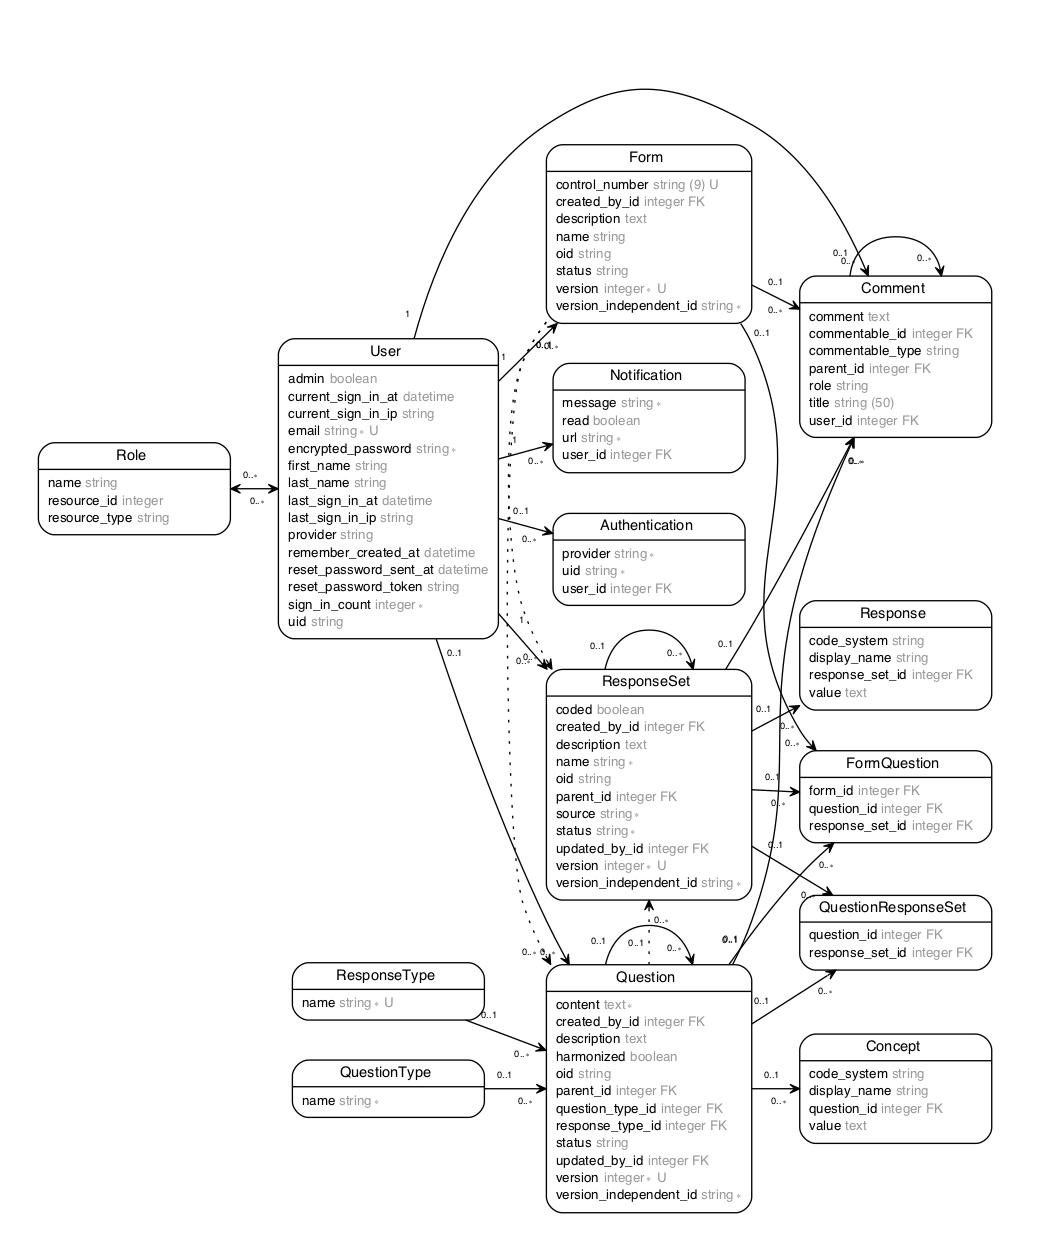
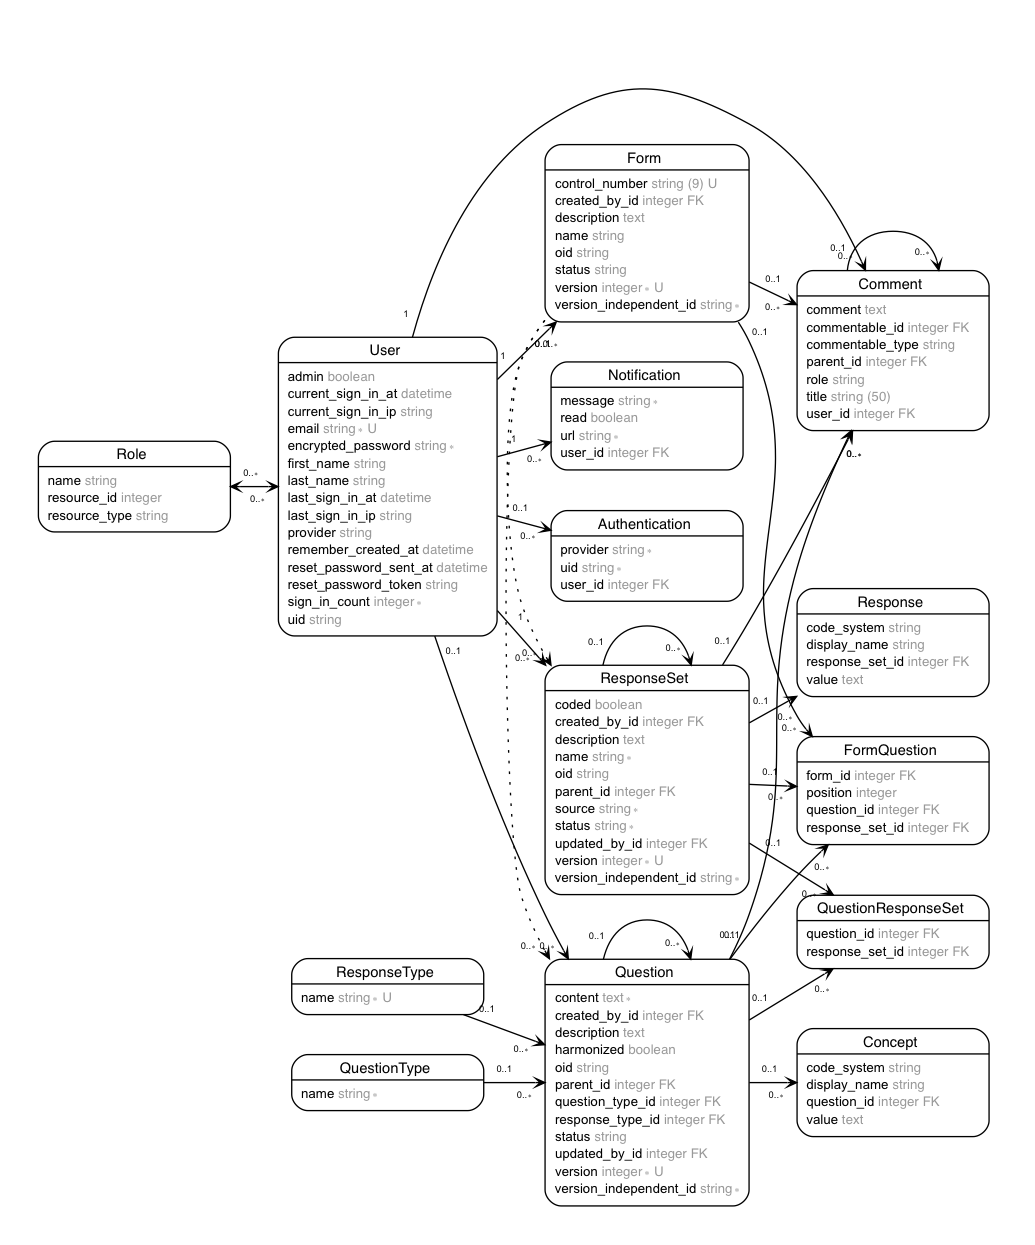
Added position to the formQuestion model

diff --git a/db/schema.rb b/db/schema.rb
@@ -10,7 +10,7 @@
 #
 # It's strongly recommended that you check this file into your version control system.
 
-ActiveRecord::Schema.define(version: 20170301133500) do
+ActiveRecord::Schema.define(version: 20170307205339) do
 
   # These are extensions that must be enabled in order to support this database
   enable_extension "plpgsql"
@@ -55,6 +55,7 @@ ActiveRecord::Schema.define(version: 20170301133500) do
     t.integer  "response_set_id"
     t.datetime "created_at",      null: false
     t.datetime "updated_at",      null: false
+    t.integer  "position"
   end
 
   create_table "forms", force: :cascade do |t|
@@ -157,6 +158,22 @@ ActiveRecord::Schema.define(version: 20170301133500) do
     t.datetime "updated_at"
     t.index ["name", "resource_type", "resource_id"], name: "index_roles_on_name_and_resource_type_and_resource_id", using: :btree
     t.index ["name"], name: "index_roles_on_name", using: :btree
+  end
+
+  create_table "taggings", force: :cascade do |t|
+    t.integer  "tag_id"
+    t.string   "taggable_type"
+    t.integer  "taggable_id"
+    t.string   "tagger_type"
+    t.integer  "tagger_id"
+    t.string   "context",       limit: 128
+    t.datetime "created_at"
+    t.index ["tag_id", "taggable_id", "taggable_type", "context", "tagger_id", "tagger_type"], name: "taggings_idx", unique: true, using: :btree
+  end
+
+  create_table "tags", force: :cascade do |t|
+    t.string "name"
+    t.index ["name"], name: "index_tags_on_name", unique: true, using: :btree
   end
 
   create_table "users", force: :cascade do |t|

diff --git a/app/models/form_question.rb b/app/models/form_question.rb
@@ -2,6 +2,7 @@ class FormQuestion < ApplicationRecord
   belongs_to :form
   belongs_to :question
   belongs_to :response_set
+  # validates_uniqueness_of :position, :scope => :form
 
   after_commit :reindex, on: [:create, :update]
   after_commit :delete_index, on: :destroy
@@ -9,5 +10,9 @@ class FormQuestion < ApplicationRecord
   def reindex
     UpdateIndexJob.perform_later('question', ESQuestionSerializer.new(question).as_json)
     UpdateIndexJob.perform_later('response_set', ESResponseSetSerializer.new(response_set).as_json) if response_set
+  end
+
+  def delete_index
+    DeleteFromIndexJob.perform_later('form_question', id)
   end
 end

diff --git a/lib/sdp/importers/redcap.rb b/lib/sdp/importers/redcap.rb
@@ -31,8 +31,8 @@ module SDP
           forms[f['OID']] = form
           f.xpath('./odm:ItemGroupRef').each do |igr|
             ig_questions = item_groups[igr['ItemGroupOID']]
-            ig_questions.each do |q|
-              form.form_questions << FormQuestion.new(question: q, response_set: q.response_sets[0])
+            ig_questions.each_with_index do |q, i|
+              form.form_questions << FormQuestion.new(question: q, response_set: q.response_sets[0], position: i)
             end
           end
         end

diff --git a/test/unit/lib/redcap_test.rb b/test/unit/lib/redcap_test.rb
@@ -27,7 +27,6 @@ class Redcap < ActiveSupport::TestCase
     forms.each_pair do |_k, v|
       v.save
     end
-
     assert_equal rscount + RESPONSE_SET_COUNT, ResponseSet.count
     assert_equal qcount  + QUESTION_COUNT, Question.count
     assert_equal formcount + FORM_COUNT, Form.count

diff --git a/test/controllers/forms_controller_test.rb b/test/controllers/forms_controller_test.rb
@@ -79,7 +79,7 @@ class FormsControllerTest < ActionDispatch::IntegrationTest
     assert_difference('Form.count', -1) do
       delete form_url(@form)
     end
-    assert_enqueued_jobs 1
+    assert_enqueued_jobs 3
     assert_redirected_to forms_url
   end
 

diff --git a/test/models/form_question_test.rb b/test/models/form_question_test.rb
@@ -4,4 +4,9 @@ class FormQuestionTest < ActiveSupport::TestCase
   # test "the truth" do
   #   assert true
   # end
+  test "A form question should save with a position" do
+    fq = form_questions(:one)
+    fq.position = 1
+    assert fq.save
+  end
 end

diff --git a/db/migrate/20170307205339_add_position_to_form_question.rb b/db/migrate/20170307205339_add_position_to_form_question.rb
@@ -1,0 +1,5 @@
+class AddPositionToFormQuestion < ActiveRecord::Migration[5.0]
+  def change
+    add_column :form_questions, :position, :integer
+  end
+end
